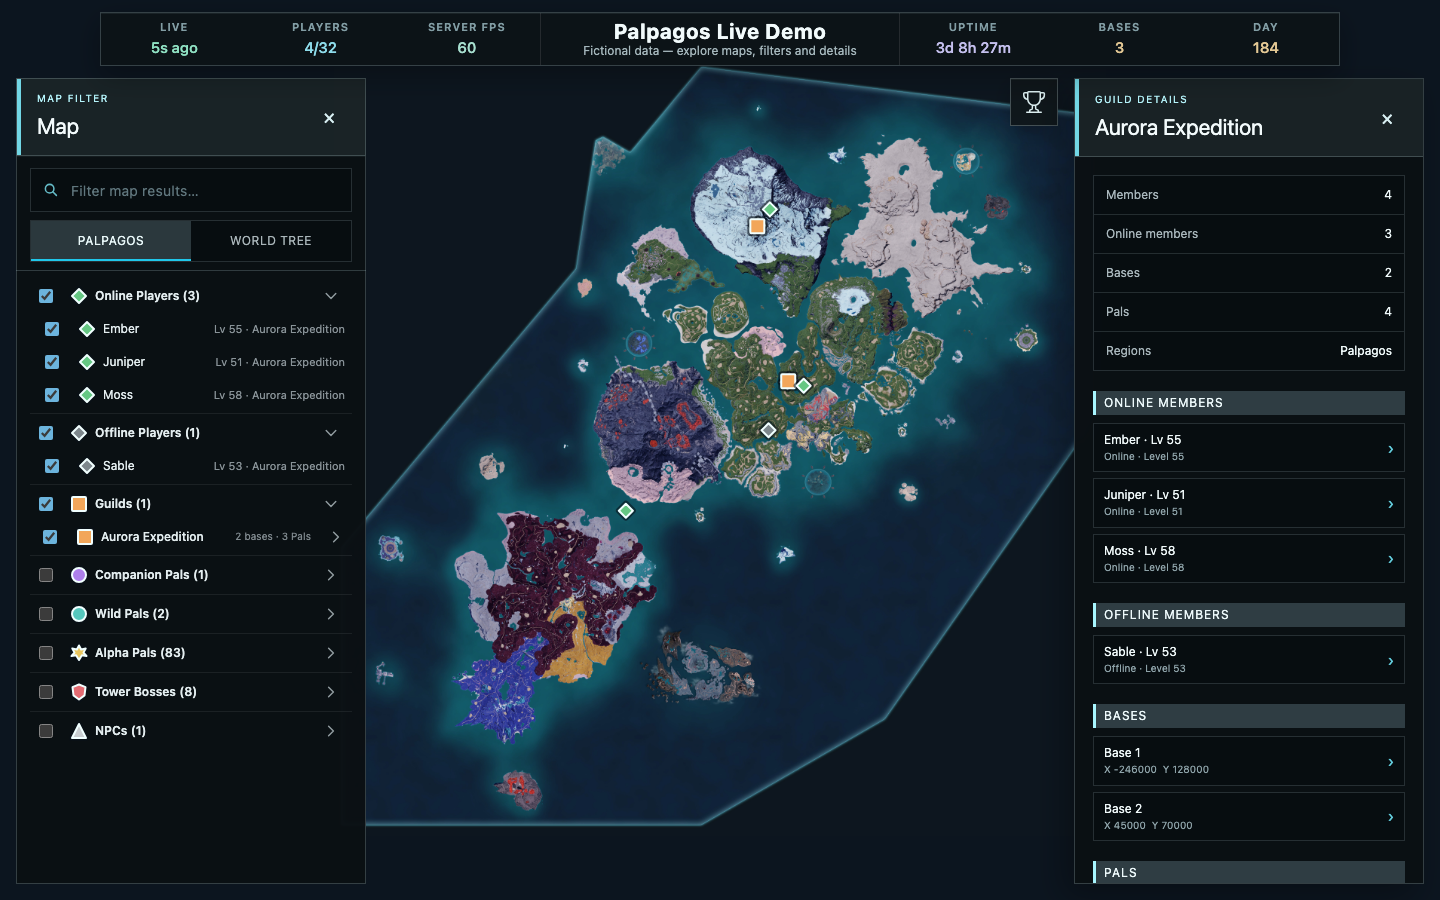
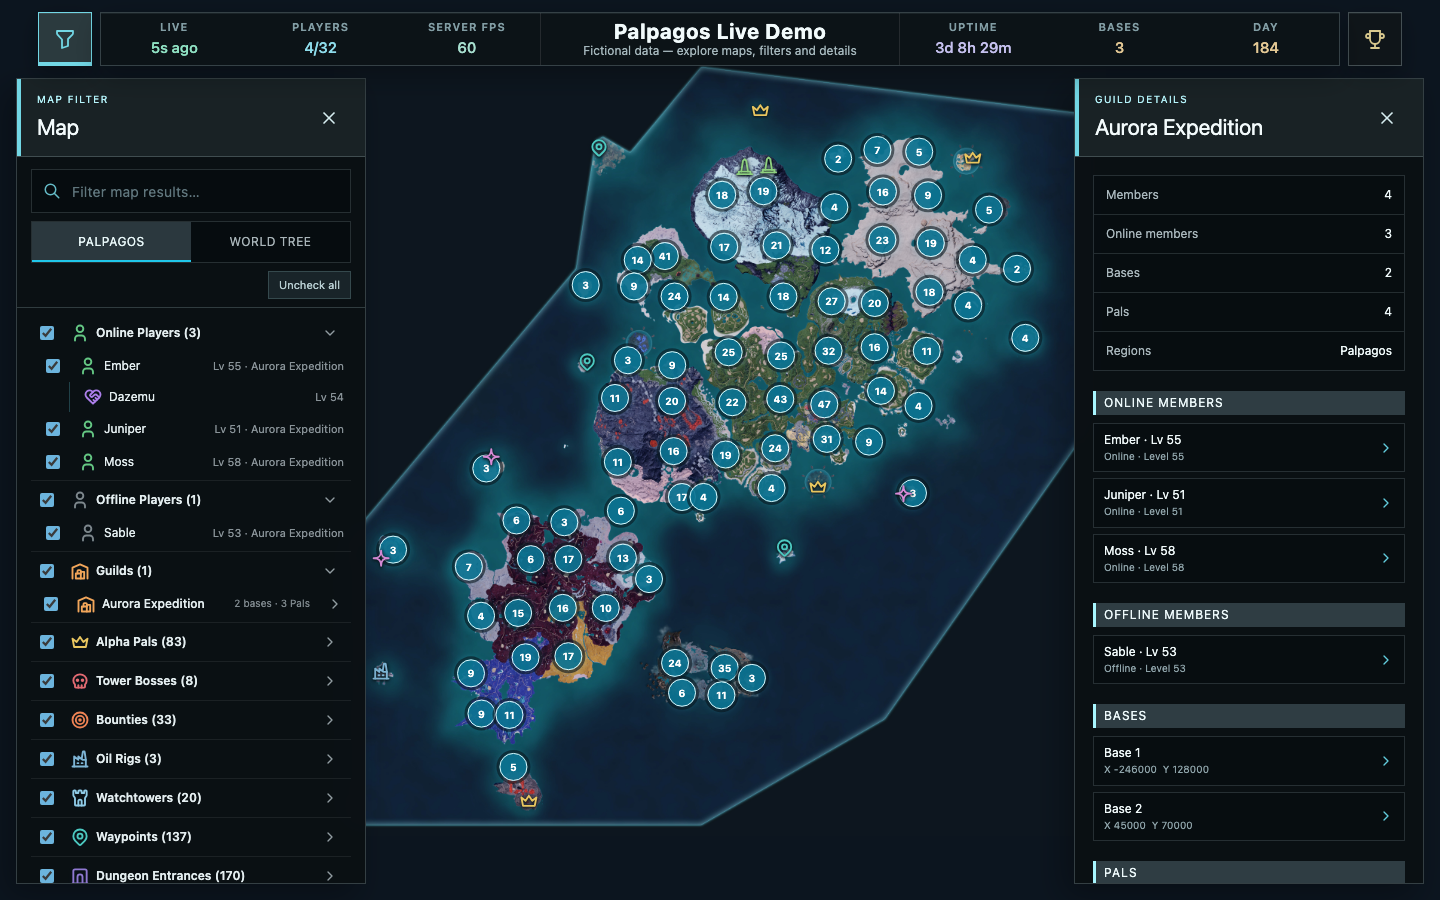
docs: refresh README and screenshots

diff --git a/README.md b/README.md
@@ -4,37 +4,27 @@
 [![GHCR](https://img.shields.io/badge/container-GHCR-2496ed?logo=docker&logoColor=white)](https://github.com/LukeHollandDev/palworld-live-map/pkgs/container/palworld-live-map)
 [![Core license: MIT](https://img.shields.io/badge/core-MIT-green.svg)](LICENSE)
 
-A self-hosted, read-only live map for Palworld dedicated servers. It combines the official REST API with versioned game-data landmarks so communities can see online players, guilds, encounters, bases, Pals, NPCs, and server health—with no client mods.
+Give your Palworld community a live view of players, guilds, bases, Pals, in-game locations, and server health. It runs against your dedicated server's official APIs, stays read-only, and needs no client mods.
 
-![A populated Palworld Live Map demo showing players, bases, Pals and NPCs](assets/images/demo.png)
-
-## What Is Palworld Live Map?
-
-Palworld Live Map is a self-hosted website for communities running a Palworld dedicated server. It connects to Palworld's official REST API for live player, server, and world-object state.
+![Palworld Live Map showing players, Pals, bases, and map filters](assets/images/demo.png)
 
 ## Features
 
-- Interactive Palpagos and World Tree maps
-- Dedicated, extensible leaderboard panel for online players
-- Live online player locations
-- Live guild relationships from the game-data API
-- Versioned Field Alpha, tower boss, bounty, and oil-rig encounters
-- Watchtowers, waypoints, dungeon entrances, Pal Effigies, Journals, and Ancient Shrine pickups
-- Fixed game-placed NPC locations without duplicate live-NPC markers
-- Guild bases and assigned worker Pals
-- Current companion Pals nested under their online player and linked from player details
-- Map filters and search across live objects and static world locations
-- Live connection freshness, player capacity, server FPS, uptime, base count, and in-game day
-- Optional save-backed capture totals, Paldeck progress, and last-seen timestamps for REST-visible players
-- Configurable polling intervals and world-object layers
+- Interactive maps of Palpagos and the World Tree
+- Live player locations and a player-level leaderboard
+- Guild bases, members, and assigned worker Pals
+- Current companion Pals linked to their players
+- Search and filters for players, guilds, Pals, bases, and in-game locations
+- Live player count, server FPS, uptime, base count, in-game day, and connection status
+- Optional save integration adds player capture totals, Paldeck progress, and last-seen times
+- Configurable refresh intervals and world-object layers
 - Demo mode with fictional moving players and world objects
-- Browser-based interface with no client mods required
 
-## Explore players, guilds, and Pals
+## Find anything on the map
 
-Open the funnel button for map search and filters, or the top-right trophy button for the player-level leaderboard. “Uncheck all” clears every visible map category at once. Search narrows both the filter results and visible markers; selecting an item enables its layer when necessary, smoothly moves to it, and opens its details. Current companion Pals are nested beneath their online player and also appear as clickable links in that player’s details. Expanding a guild shows its bases and assigned Pals, while selecting the guild opens the available live roster across all maps.
+Open the map filter to choose which markers are shown and search for players, guilds, Pals, bases, or in-game landmarks. Select a result to jump to its location and open its details.
 
-![The Palworld Live Map demo showing players, guild bases, Pals, and the guild details panel](assets/images/demo-details.png)
+![Palworld Live Map showing map filters and guild details](assets/images/demo-details.png)
 
 ## Run with Docker
 
@@ -52,7 +42,7 @@ docker run -d \
 
 Replace the URL and password with your server's values, then open <http://localhost:8080>. Enable Palworld's game-data API to also display bases, Pals, and NPCs. A healthcheck endpoint is available at `/-/health`.
 
-The static world catalogue is generated by the project exporter from an installed copy of Palworld, then bundled so deployments do not require the game-data endpoint for those locations. It includes 1,146 versioned encounter, navigation, collectible, and fixed-NPC records.
+In-game locations are bundled with the map, so they remain available without the game-data API.
 
 The bundled Compose file provides the same single-service setup:
 
@@ -71,9 +61,9 @@ docker run --rm -p 127.0.0.1:8080:8080 -e DEMO_MODE=true \
 
 Docker is the supported deployment method. See [Development](DEVELOPMENT.md#run-from-source) to run from source.
 
-### Run with Palworld Server Docker
+## Run with Palworld Server Docker
 
-If you use [`thijsvanloef/palworld-server-docker`](https://github.com/thijsvanloef/palworld-server-docker), add the map to the same Compose file. Both services use the same `ADMIN_PASSWORD`, and the map connects using the `palworld` service name:
+If you run your server with [`thijsvanloef/palworld-server-docker`](https://github.com/thijsvanloef/palworld-server-docker), add the map to the same Compose file, set `ADMIN_PASSWORD`, then start both services with `docker compose up -d`. The map connects through the `palworld` service name:
 
 ```yaml
 services:
@@ -100,30 +90,28 @@ volumes:
   palworld-data:
 ```
 
-Set `ADMIN_PASSWORD`, then run `docker compose up -d`.
-
 ## Configuration
 
 Every supported environment option and timeout is listed below and documented in [`.env.example`](.env.example).
 
-| Variable                  | Purpose                                                              | Default  |
-| ------------------------- | -------------------------------------------------------------------- | -------- |
-| `PALWORLD_REST_URL`       | Private URL of the official Palworld REST API                        | required |
-| `PALWORLD_ADMIN_PASSWORD` | REST admin password; never sent to browsers                          | required |
-| `DEMO_MODE`               | Use fictional data and do not contact Palworld                       | `false`  |
-| `HTTP_PORT`               | Host port published by Compose                                       | `8080`   |
-| `ADDR`                    | Address the Go HTTP server listens on                                | `:8080`  |
-| `POLL_INTERVAL`           | Player and metrics refresh interval; minimum `2s`                    | `5s`     |
-| `UPSTREAM_TIMEOUT`        | Player and server-information timeout; must be below `POLL_INTERVAL` | `4s`     |
-| `WORLD_DATA_ENABLED`      | Poll bases, Pals, and NPCs                                           | `true`   |
-| `WORLD_POLL_INTERVAL`     | World-object refresh interval; minimum `5s`                          | `15s`    |
-| `WORLD_TIMEOUT`           | World-object timeout; must be below `WORLD_POLL_INTERVAL`            | `10s`    |
-| `SAVE_DATA_ENABLED`       | Enrich REST-visible players from immutable save backups              | `false`  |
+| Variable                  | Purpose                                                              | Default                |
+| ------------------------- | -------------------------------------------------------------------- | ---------------------- |
+| `PALWORLD_REST_URL`       | Private URL of the official Palworld REST API                        | required               |
+| `PALWORLD_ADMIN_PASSWORD` | REST admin password; never sent to browsers                          | required               |
+| `DEMO_MODE`               | Use fictional data and do not contact Palworld                       | `false`                |
+| `HTTP_PORT`               | Host port published by Compose                                       | `8080`                 |
+| `ADDR`                    | Address the Go HTTP server listens on                                | `:8080`                |
+| `POLL_INTERVAL`           | Player and metrics refresh interval; minimum `2s`                    | `5s`                   |
+| `UPSTREAM_TIMEOUT`        | Player and server-information timeout; must be below `POLL_INTERVAL` | `4s`                   |
+| `WORLD_DATA_ENABLED`      | Poll bases, Pals, and NPCs                                           | `true`                 |
+| `WORLD_POLL_INTERVAL`     | World-object refresh interval; minimum `5s`                          | `15s`                  |
+| `WORLD_TIMEOUT`           | World-object timeout; must be below `WORLD_POLL_INTERVAL`            | `10s`                  |
+| `SAVE_DATA_ENABLED`       | Enrich REST-visible players from immutable save backups              | `false`                |
 | `PALWORLD_SAVE_ROOT`      | Read-only `SaveGames/0` directory                                    | `/data/palworld/saves` |
-| `PALWORLD_SAVE_WORLD_ID`  | Exact world ID when automatic discovery is ambiguous                 | empty    |
-| `PALWORLD_SAVE_DECODER`   | Absolute `palsave` path; blank searches beside the app binary        | empty    |
-| `SAVE_POLL_INTERVAL`      | Save enrichment interval; minimum `15s`                              | `30s`    |
-| `SAVE_TIMEOUT`            | Whole-generation timeout; must be below `SAVE_POLL_INTERVAL`         | `20s`    |
+| `PALWORLD_SAVE_WORLD_ID`  | Exact world ID when automatic discovery is ambiguous                 | empty                  |
+| `PALWORLD_SAVE_DECODER`   | Absolute `palsave` path; blank searches beside the app binary        | empty                  |
+| `SAVE_POLL_INTERVAL`      | Save enrichment interval; minimum `15s`                              | `30s`                  |
+| `SAVE_TIMEOUT`            | Whole-generation timeout; must be below `SAVE_POLL_INTERVAL`         | `20s`                  |
 
 The current `palsave` contract projects one player save at a time. It does
 not expose the names, levels, or guild data stored in `Level.sav`, so save-only
